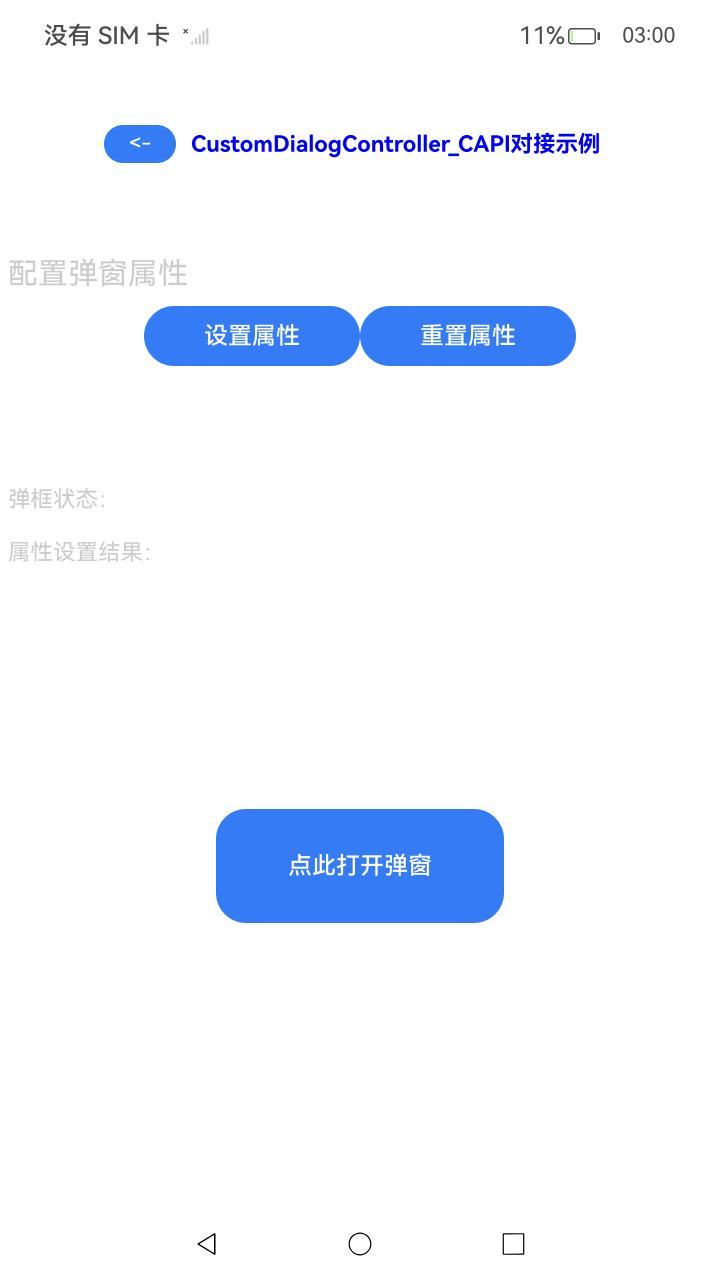
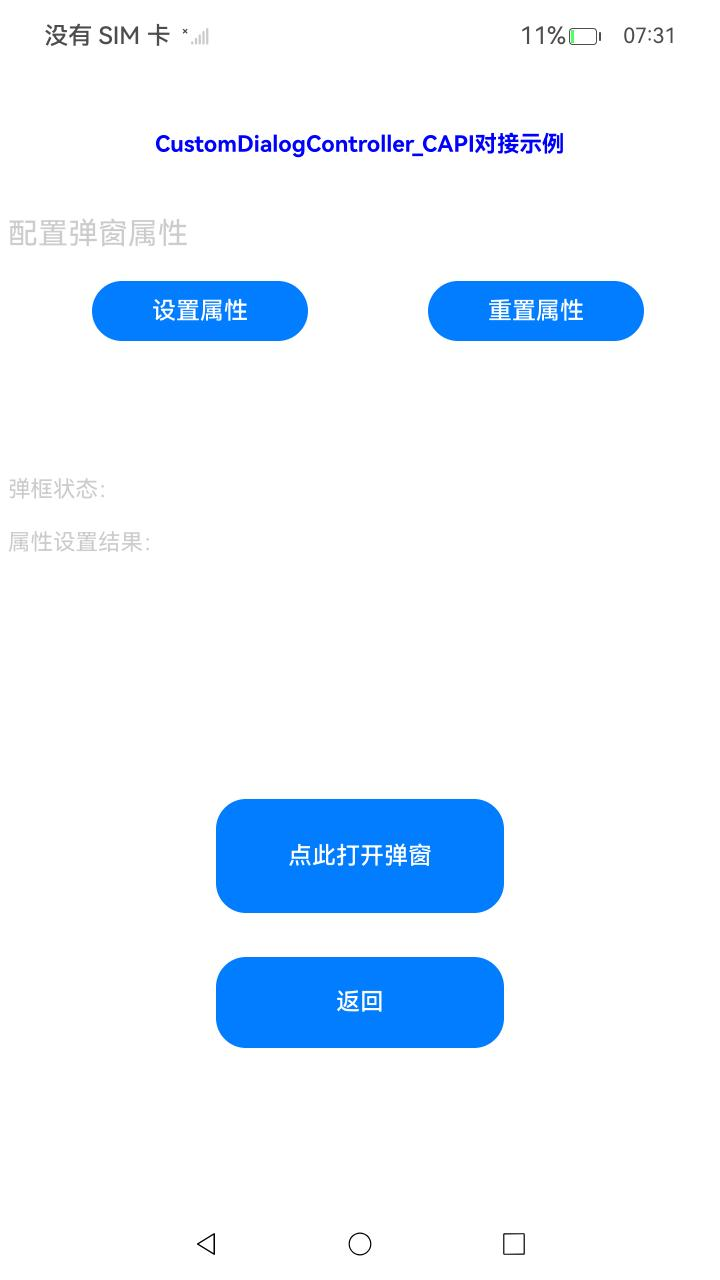
Modify NativeDialogSample ets

diff --git a/code/DocsSample/ArkUISample/NativeDialogSample/entry/src/main/cpp/customdialog/customdialogexample.cpp b/code/DocsSample/ArkUISample/NativeDialogSample/entry/src/main/cpp/customdialog/customdialogexample.cpp
@@ -798,7 +798,7 @@ bool CreateCustomDialog()
         OH_ArkUI_CustomDialog_GetState(reinterpret_cast<ArkUI_NativeDialogHandle>(g_dialogOption), &state);
         ShowDialogState(state);
         InitDialogOptions(g_dialogOption, column);
-        CreateStyledButton(nodeAPI, column, "close", MyOnClose);
+        CreateStyledButton(nodeAPI, column, "Close Dialog", MyOnClose);
         g_isOpenDialog = true;
         return true;
 }
@@ -822,7 +822,11 @@ int32_t CustomDialogTest::SetCustomDialogDialogAttribute(int32_t nodeType, uint3
 static void CloseApplication()
 {
     std::lock_guard<std::mutex> lock(g_dialogIdMutex);
-    OH_ArkUI_CustomDialog_DisposeOptions(g_dialogOption);
+    if (globalCustomDialog) {
+        g_dialogAPI3->nativeDialogAPI1.dispose(globalCustomDialog);
+    } else {
+        OH_ArkUI_CustomDialog_DisposeOptions(g_dialogOption);
+    }
 }
 
 napi_value CustomDialogTest::SetCustomDialog(napi_env env, napi_callback_info info)
@@ -1676,7 +1680,6 @@ static void HandleDialogCloseEvent()
             OH_LOG_Print(LOG_APP, LOG_INFO, LOG_PRINT_DOMAIN, "ControllerTest",
                 "HandleDialogCloseEvent close failed, ret = %{public}d ", ret);
         }
-        g_dialogAPI3->nativeDialogAPI1.dispose(globalCustomDialog);
         globalCustomDialog = nullptr;
         g_dialogAPI3 = nullptr;
         g_isOpenController = false;
@@ -1808,7 +1811,6 @@ napi_value CustomDialogTest::ResetDialogController(napi_env env, napi_callback_i
     if (globalCustomDialog || g_dialogAPI3) {
         g_dialogAPI3->nativeDialogAPI1.removeContent(globalCustomDialog);
         g_dialogAPI3->nativeDialogAPI1.close(globalCustomDialog);
-        g_dialogAPI3->nativeDialogAPI1.dispose(globalCustomDialog);
         globalCustomDialog = nullptr;
         g_dialogAPI3 = nullptr;
         g_isOpenController = false;

diff --git a/code/DocsSample/ArkUISample/NativeDialogSample/ohosTest.md b/code/DocsSample/ArkUISample/NativeDialogSample/ohosTest.md
@@ -40,7 +40,7 @@
 | 是否获取焦点示例验证 | 应用位于首页 | 1.点击  CustomDialogController_CAPI对接示例按钮<br/>2.点击  设置属性按钮<br/>3.点击  是否开启模态样式弹窗  选择否<br/>4.点击  是否获取焦点  选择 否。<br/>5.点击  点此打开弹窗按钮   查看验证结果<br/>6.点击  弹框中Close Dialog 按钮<br/>7.点击  重置属性按钮 | 点击输入框 打开键盘 点击弹框内区域 键盘不回收 | 是 | Pass |
 | 设置弹窗的背景模糊效果示例验证 | 应用位于首页 | 1.点击  CustomDialogController_CAPI对接示例按钮<br/>2.点击  设置属性按钮<br/>3.点击  设置弹窗的背景模糊效果。<br/>4.点击  点此打开弹窗按钮   查看验证结果<br/>5.点击  弹框中Close Dialog 按钮<br/>6.点击  重置属性按钮 | 设置自定义弹窗的背景效果参数 | 是 | Pass |
 | 设置自定义弹窗的背景效果参数示例验证 | 应用位于首页 | 1.点击  CustomDialogController_CAPI对接示例按钮<br/>2.点击  设置属性按钮<br/>3.点击  设置自定义弹窗的背景效果参数。<br/>4.点击  点此打开弹窗按钮   查看验证结果<br/>5.点击  弹框中Close Dialog 按钮<br/>6.点击  重置属性按钮 | 弹框内部颜色有变化 | 是 | Pass |
-| <-按钮 示例验证 | 应用位于首页 | 1.点击  CustomDialogController_CAPI对接示例按钮<br/>2.点击 <- 按钮 | 返回上一层 | 是 | Pass |
+| 返回按钮示例验证 | 应用位于首页 | 1.点击  CustomDialogController_CAPI对接示例按钮<br/>2.点击 返回按钮 | 返回上一层 | 是 | Pass |
 | 弹框创建/打开/关闭示例验证 | 应用位于首页 | 1.点击  OpenCustomDialog_CAPI对接示例按钮<br/>2.点击  点此打开弹窗按钮   查看验证结果<br/>3.点击  弹框中Close Dialog 按钮<br/>4.点击  重置属性按钮 | 弹框创建、打开、关闭成功 | 是 | Pass |
 | 应用退出示例验证 | 应用位于首页 | 1.点击   关闭应用按钮 | 应用退出 | 是 | Pass |
 | 设置弹窗的显示层示例验证 | 应用位于首页 | 1.点击  OpenCustomDialog_CAPI对接示例按钮<br/>2.点击 设置属性按钮<br/>3.点击 设置弹窗的显示层级  是  /  否 <br/>4.点击 点此打开弹窗按钮   查看验证结果<br/>5.点击 弹框中Close Dialog 按钮<br/>6.点击 重置属性按钮 | 属性设置结果显示<br/>ARKUI_LEVEL_MODE_OVERLAY  /  ARKUI_LEVEL_MODE_EMBEDDED | 是 | Pass |
@@ -63,7 +63,7 @@
 | 弹框状态示例验证 | 应用位于首页 | 1.点击  OpenCustomDialog_CAPI对接示例按钮<br/>2.点击  点此打开弹窗按钮   查看验证结果<br/>3.点击  弹框中Close Dialog 按钮<br/>4.点击  重置属性按钮 | 弹框状态显示<br/>DIALOG_UNINITIALIZED<br/>DIALOG_INITIALIZED<br/>DIALOG_APPEARING<br/>DIALOG_DISAPPEARED | 是 | Pass |
 | 背景模糊效果示例验证 | 应用位于首页 | 1.点击  OpenCustomDialog_CAPI对接示例按钮<br/>2.点击  设置属性按钮<br/>3.点击  背景模糊效果。<br/>4.点击  点此打开弹窗按钮   查看验证结果<br/>5.点击  弹框中Close Dialog 按钮<br/>6.点击  重置属性按钮 | 弹框内变为深色 | 是 | Pass |
 | 背景效果参数示例验证 | 应用位于首页 | 1.点击  OpenCustomDialog_CAPI对接示例按钮<br/>2.点击  设置属性按钮<br/>3.点击  背景效果参数。<br/>4.点击  点此打开弹窗按钮   查看验证结果<br/>5.点击  弹框中Close Dialog 按钮<br/>6.点击  重置属性按钮 | 弹框内变为深色                                               | 是 | Pass |
-| <-按钮 示例验证 | 应用位于首页 | 1.点击  OpenCustomDialog_CAPI对接示例按钮<br/>2.点击 <- 按钮 | 返回上一层 | 是 | Pass |
+| 返回按钮示例验证                         | 应用位于首页 | 1.点击  OpenCustomDialog_CAPI对接示例按钮<br/>2.点击 返回按钮 | 返回上一层                                                   | 是       | Pass     |
 
 
 
